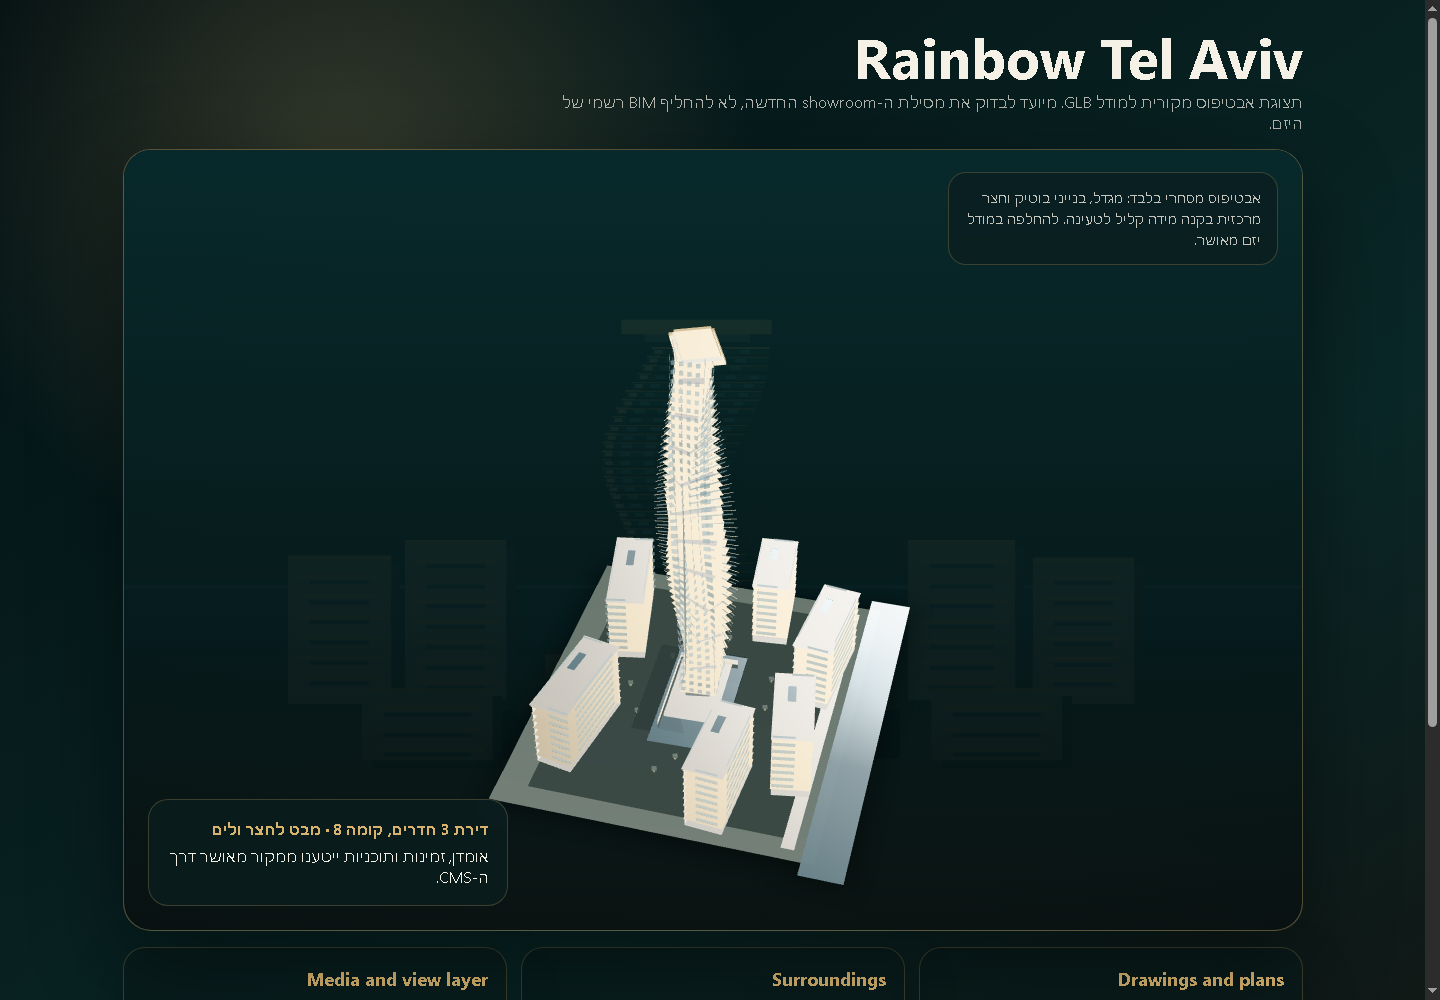
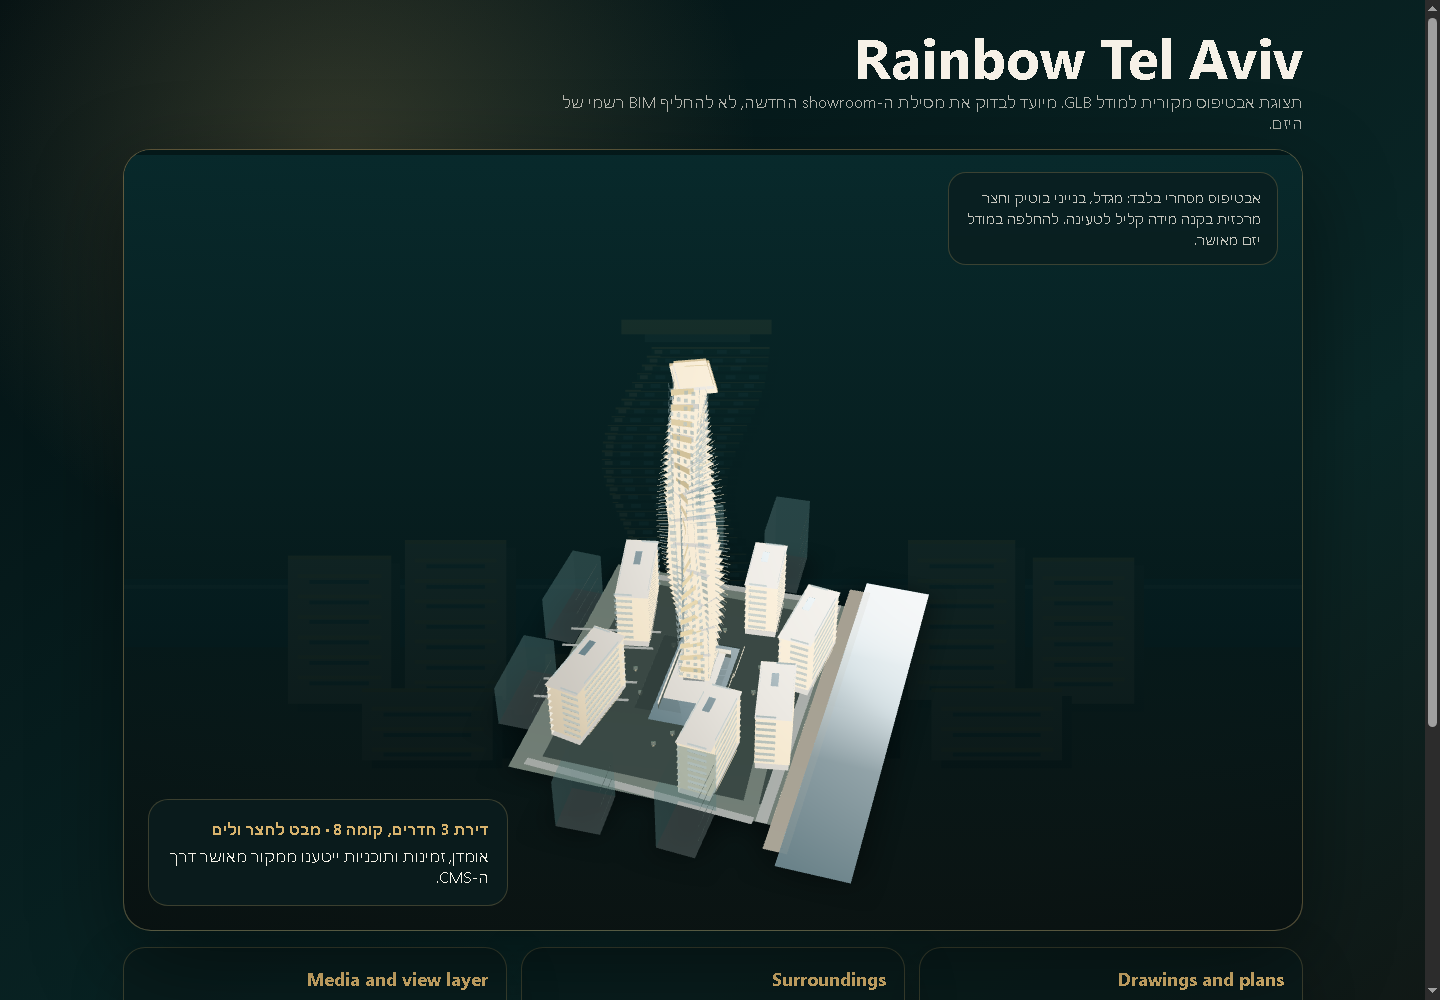
assets: improve Rainbow showroom model context

Changed region(s): [[0.3438, 0.31, 0.6562, 0.868], [0.5625, 0.868, 0.5938, 0.899]]

diff --git a/scripts/generate-rainbow-prototype-model.py b/scripts/generate-rainbow-prototype-model.py
@@ -106,6 +106,39 @@ MATERIALS = [
         "alphaMode": "BLEND",
         "doubleSided": True,
     },
+    {
+        "name": "champagne facade glow",
+        "pbrMetallicRoughness": {
+            "baseColorFactor": [1.0, 0.82, 0.45, 1.0],
+            "metallicFactor": 0.28,
+            "roughnessFactor": 0.32,
+        },
+    },
+    {
+        "name": "coastal sand",
+        "pbrMetallicRoughness": {
+            "baseColorFactor": [0.72, 0.66, 0.52, 1.0],
+            "metallicFactor": 0.0,
+            "roughnessFactor": 0.82,
+        },
+    },
+    {
+        "name": "promenade paving",
+        "pbrMetallicRoughness": {
+            "baseColorFactor": [0.42, 0.47, 0.43, 1.0],
+            "metallicFactor": 0.0,
+            "roughnessFactor": 0.72,
+        },
+    },
+    {
+        "name": "future district silhouette",
+        "pbrMetallicRoughness": {
+            "baseColorFactor": [0.08, 0.18, 0.18, 0.42],
+            "metallicFactor": 0.0,
+            "roughnessFactor": 0.78,
+        },
+        "alphaMode": "BLEND",
+    },
 ]
 
 
@@ -217,6 +250,15 @@ def add_tower(builder: MeshBuilder) -> None:
             for bay in (-0.36, -0.12, 0.12, 0.36):
                 builder.add_box(3, (x + side * (sx / 2 + 0.07), y + 1.32, z + bay * sz), (0.08, 1.45, sz * 0.12), rot_y=rot)
 
+        if floor % 2 == 0:
+            # Thin champagne ribs keep the schematic tower readable while spinning.
+            builder.add_box(8, (x - sx / 2 - 0.12, y + 1.35, z), (0.12, 2.35, sz * 0.72), rot_y=rot)
+            builder.add_box(8, (x + sx / 2 + 0.12, y + 1.35, z), (0.12, 2.35, sz * 0.72), rot_y=rot)
+
+        if floor in {8, 16, 24, 31, 38}:
+            # Demo-unit bands align with the CMS hotspot set without claiming real inventory.
+            builder.add_box(8, (x, y + 1.62, z + sz / 2 + 0.38), (sx * 0.55, 0.26, 0.18), rot_y=rot)
+
     top_y = base_y + floors * floor_h
     # Rooftop crown and amenity terrace.
     builder.add_box(1, (0.6, top_y + 0.9, 0.2), (18.5, 1.1, 13.2), rot_y=0.44)
@@ -250,6 +292,7 @@ def add_boutique_ring(builder: MeshBuilder) -> None:
                 builder.add_box(3, (x + side * (sx / 2 + 0.05), y + 1.15, z), (0.06, 1.25, sz * 0.58), rot_y=rot)
         builder.add_box(6, (x, h + 3.0, z), (sx * 1.04, 0.22, sz * 1.08), rot_y=rot)
         builder.add_box(4, (x + sx * 0.18, h + 3.18, z - sz * 0.14), (sx * 0.24, 0.08, sz * 0.22), rot_y=rot)
+        builder.add_box(8, (x, 2.1, z + sz / 2 + 0.35), (sx * 0.72, 0.18, 0.16), rot_y=rot)
 
 
 def add_site(builder: MeshBuilder) -> None:
@@ -260,8 +303,33 @@ def add_site(builder: MeshBuilder) -> None:
     builder.add_box(4, (0, 0.04, 0), (46, 0.1, 24), rot_y=0.03)
     builder.add_box(4, (-9, 0.06, 3), (22, 0.1, 13), rot_y=0.45)
     builder.add_box(4, (24, 0.05, -7), (12, 0.1, 4.5), rot_y=-0.22)
-    builder.add_box(4, (0, 0.02, 55), (130, 0.08, 14), rot_y=0)
-    builder.add_box(6, (0, 0.08, 43), (112, 0.08, 4.2), rot_y=0)
+    builder.add_box(4, (0, 0.02, 64), (154, 0.08, 26), rot_y=0)
+    builder.add_box(9, (0, 0.055, 49.5), (142, 0.08, 8.5), rot_y=0)
+    builder.add_box(10, (0, 0.10, 41.8), (120, 0.08, 4.2), rot_y=0)
+    builder.add_box(5, (-37, 0.12, 35), (32, 0.08, 5.5), rot_y=0.08)
+    builder.add_box(5, (38, 0.12, 35), (34, 0.08, 5.0), rot_y=-0.07)
+    builder.add_box(10, (-58, 0.13, -4), (3.2, 0.08, 86), rot_y=-0.05)
+    builder.add_box(10, (58, 0.13, -6), (3.2, 0.08, 82), rot_y=0.06)
+
+    # Low surrounding district masses frame the project without fake exact pins.
+    for x, z, sx, sz, h, rot in [
+        (-72, -18, 18, 16, 22, 0.04),
+        (-70, 18, 22, 14, 28, -0.05),
+        (72, -20, 20, 15, 24, -0.04),
+        (74, 17, 24, 14, 30, 0.05),
+        (-26, -58, 30, 12, 18, 0.02),
+        (24, -58, 32, 12, 20, -0.02),
+    ]:
+        builder.add_box(11, (x, h / 2, z), (sx, h, sz), rot_y=rot)
+        for floor_y in range(5, int(h), 7):
+            builder.add_box(7, (x, floor_y, z + sz / 2 + 0.08), (sx * 0.72, 0.18, 0.08), rot_y=rot)
+
+    # Entry court, deck seams and water-edge lines make the model read as an
+    # inspectable showroom object rather than an isolated tower icon.
+    for offset in (-20, -10, 10, 20):
+        builder.add_box(10, (offset, 0.16, -39), (1.2, 0.08, 36), rot_y=0.22)
+    for offset in (-16, 0, 16):
+        builder.add_box(8, (offset, 0.22, 13), (18, 0.08, 0.28), rot_y=0.03)
 
     # Landscape markers / palm-like verticals. Abstract enough to avoid clip-art,
     # but enough to cue the resort setting at model-viewer scale.
@@ -562,7 +630,9 @@ trusted map/source.
 
 - Tower massing: original 42-level spiral-inspired stack, based on public descriptions of a spiral-designed Rainbow tower. It is not traced from any render.
 - Boutique ring: six 8-floor blocks around a central resort court, based on the public complex description.
-- Resort layer: lagoon/pool court, roof amenity hints, landscape markers and coastal strip are schematic cues only.
+- Resort layer: lagoon/pool court, roof amenity hints, landscape markers, coastal strip, promenade and park ribbons are schematic cues only.
+- Context masses: low surrounding silhouettes suggest the future Sde Dov district scale, but are not exact neighboring project pins or approved 3D city data.
+- Facade cues: champagne ribs and highlighted demo-unit bands are interaction/readability aids for the prototype spinner, not official sale elevations.
 - No faces, no copied stock, no copied developer images, no official inventory claims.
 """
     (OUT / "source-notes.md").write_text(source_notes, encoding="utf-8")

diff --git a/assets/projects/rainbow-tel-aviv/source-notes.md b/assets/projects/rainbow-tel-aviv/source-notes.md
@@ -55,5 +55,7 @@ trusted map/source.
 
 - Tower massing: original 42-level spiral-inspired stack, based on public descriptions of a spiral-designed Rainbow tower. It is not traced from any render.
 - Boutique ring: six 8-floor blocks around a central resort court, based on the public complex description.
-- Resort layer: lagoon/pool court, roof amenity hints, landscape markers and coastal strip are schematic cues only.
+- Resort layer: lagoon/pool court, roof amenity hints, landscape markers, coastal strip, promenade and park ribbons are schematic cues only.
+- Context masses: low surrounding silhouettes suggest the future Sde Dov district scale, but are not exact neighboring project pins or approved 3D city data.
+- Facade cues: champagne ribs and highlighted demo-unit bands are interaction/readability aids for the prototype spinner, not official sale elevations.
 - No faces, no copied stock, no copied developer images, no official inventory claims.

diff --git a/docs/qa/2026-06-14-rainbow-1630-live-and-prototype-model.md b/docs/qa/2026-06-14-rainbow-1630-live-and-prototype-model.md
@@ -58,11 +58,14 @@ Added `assets/projects/rainbow-tel-aviv/`:
 
 Prototype model proof:
 
-- GLB size: 508,888 bytes.
-- Poster size: 13,195 bytes.
+- GLB size: 931,704 bytes.
+- Poster size: 76,447 bytes.
[2 lines of base64/hex data omitted]
 - Local HTTP `<model-viewer>` preview loads the GLB: `loaded:true`, `modelIsVisible:true`.
 - Six hotspot buttons render.
 - Clicking a hotspot updates the selected-unit readout.
+- Desktop and mobile pointer drag both rotate the model camera in the preview harness.
 - Preview screenshot: `docs/previews/rainbow-model-viewer-prototype-final-1440.png`
 
 ## CMS Wiring After This Branch Merges
